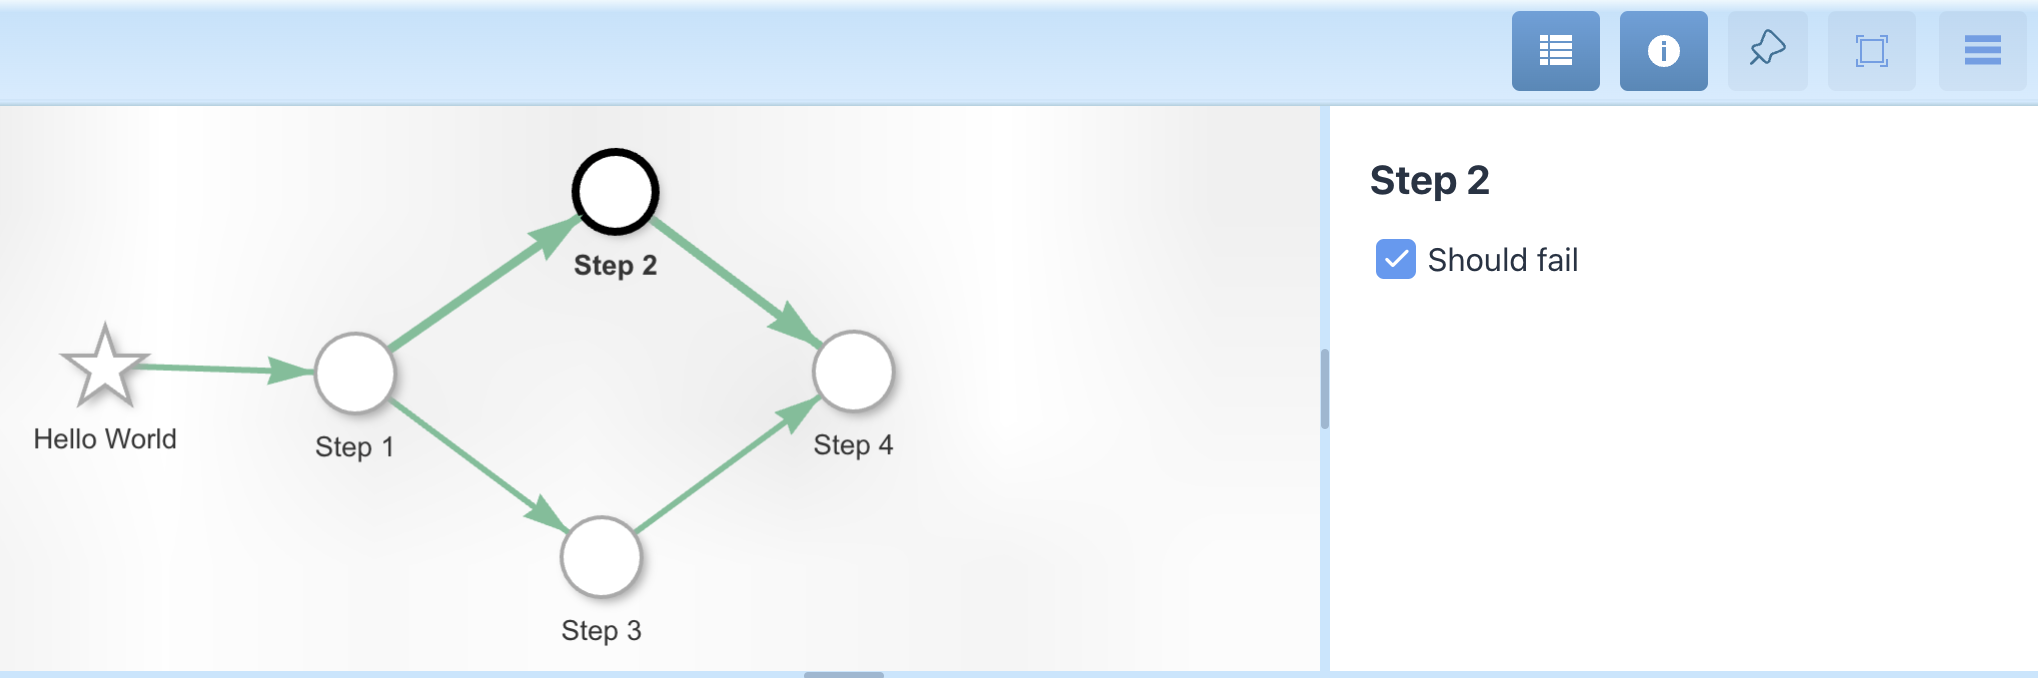
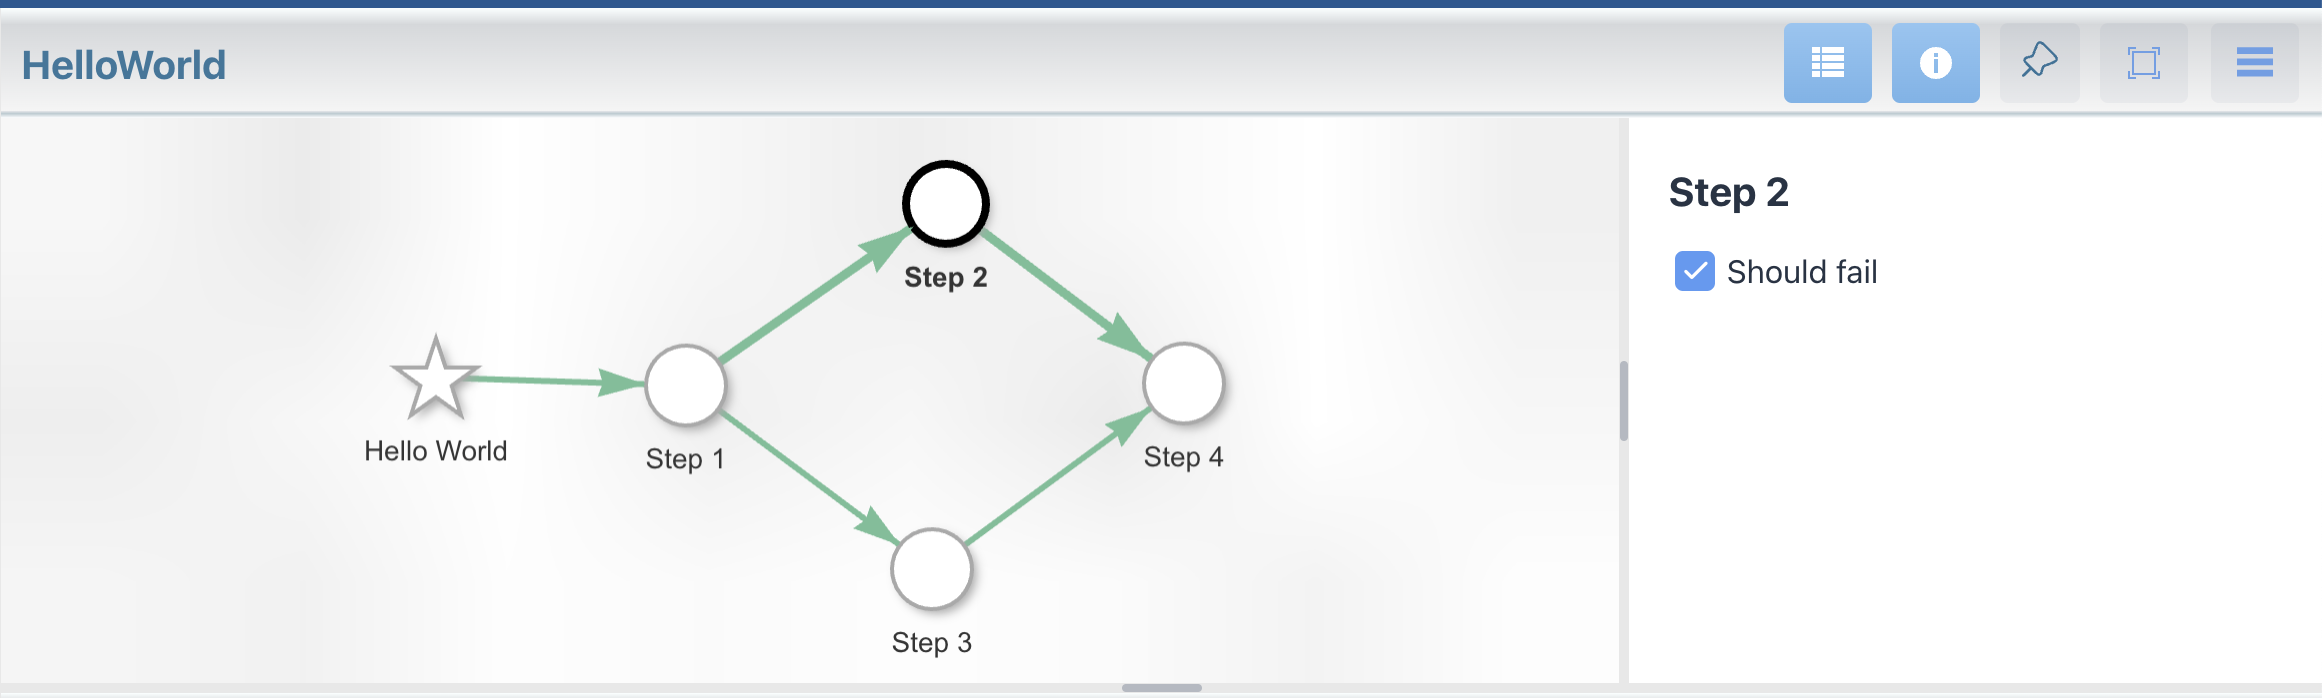
documentation

diff --git a/bean-runner-spring-boot-starter/src/main/resources/META-INF/resources/frontend/themes/my-theme/styles.css b/bean-runner-spring-boot-starter/src/main/resources/META-INF/resources/frontend/themes/my-theme/styles.css
@@ -7,7 +7,8 @@
 
 
 html {
-    --header-background: linear-gradient(0deg, rgb(173, 208, 223) 0%, rgba(207,234,255,1) 4%, rgb(202, 229, 250) 6%, rgba(212,236,255,1) 6%, rgba(193,227,252,1) 85%, rgba(250,255,255,1) 100%);
+    /*--header-background: linear-gradient(0deg, rgb(229, 242, 247) 0%, rgb(206, 225, 235) 4%, rgb(196, 206, 216) 6%, rgba(212,236,255,1) 6%, rgba(193,227,252,1) 85%, rgba(250,255,255,1) 100%);*/
+    --header-background: linear-gradient(0deg, rgb(253 254 255) 0%, rgb(186 203 210) 4%, rgb(222 226 230) 6%, rgb(245 245 245) 6%, rgb(213 216 219) 85%, rgba(250, 255, 255, 1) 100%);
     --header-color: #35789c;
     --vaadin-input-field-hover-highlight-opacity: 0;
     --vaadin-input-field-hover-highlight: none;
@@ -93,7 +94,7 @@ vaadin-tab::before {
 }
 
 vaadin-split-layout::part(splitter) {
-    background: #c4e6ffff;
+    background: #e8e8e8;
 }
 
 .main-tab {
